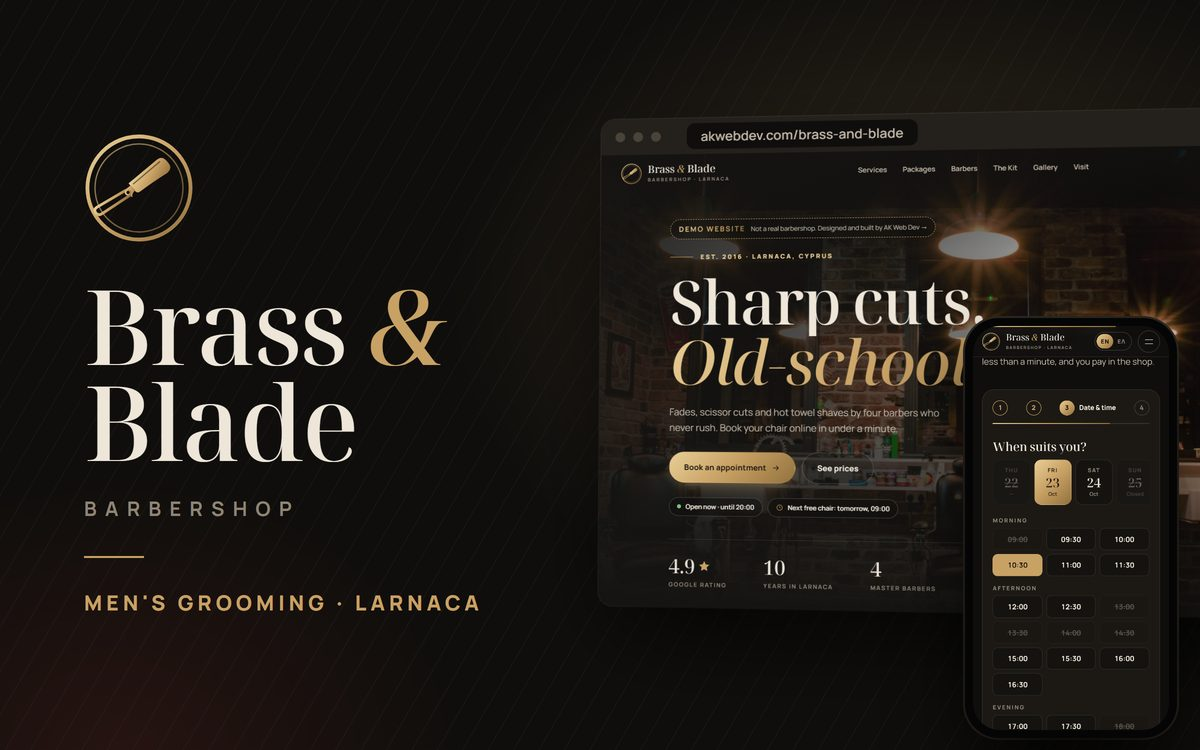
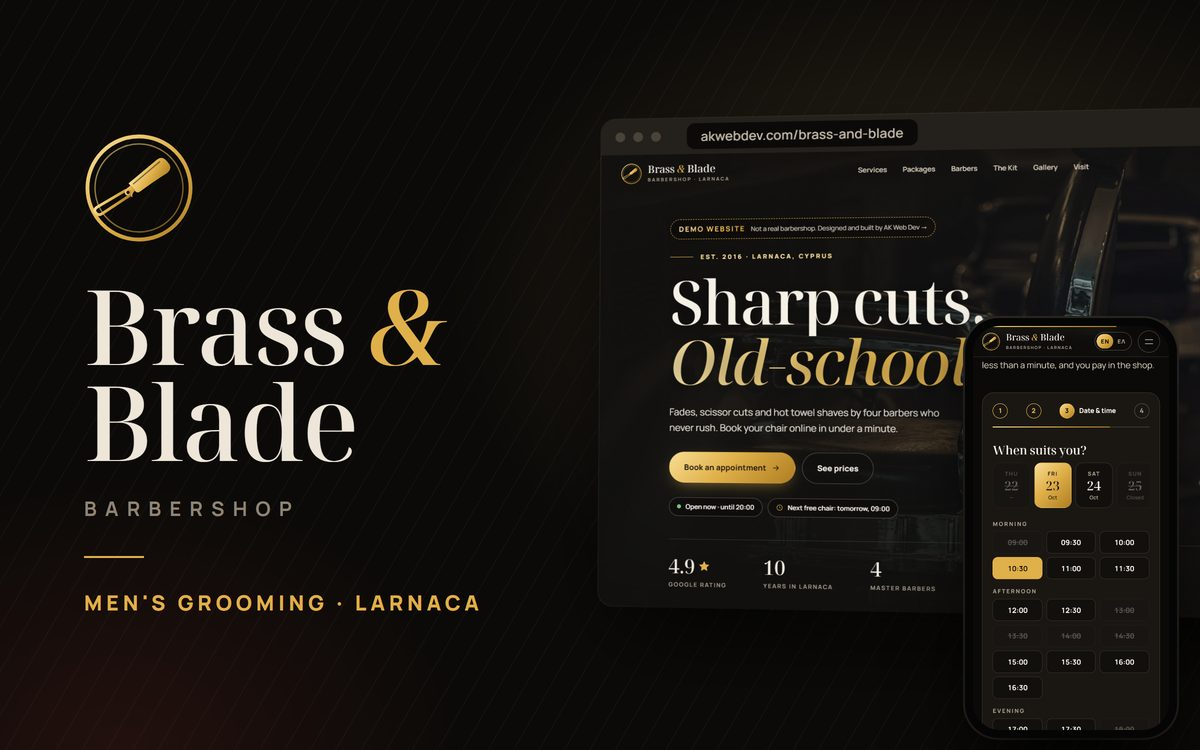
Refresh the Brass & Blade thumbnail

diff --git a/index.html b/index.html
@@ -27,7 +27,7 @@
   <link rel="preconnect" href="https://fonts.googleapis.com">
   <link rel="preconnect" href="https://fonts.gstatic.com" crossorigin>
   <link href="https://fonts.googleapis.com/css2?family=Inter:wght@400;500;600;700&display=swap" rel="stylesheet">
-  <link rel="preload" as="image" href="images/work/barber-thumb-720.jpg?v=1" imagesrcset="images/work/barber-thumb-720.jpg?v=1 720w, images/work/barber-thumb-1200.jpg?v=1 1200w" imagesizes="(max-width: 960px) 64vw, 420px">
+  <link rel="preload" as="image" href="images/work/barber-thumb-720.jpg?v=2" imagesrcset="images/work/barber-thumb-720.jpg?v=2 720w, images/work/barber-thumb-1200.jpg?v=2 1200w" imagesizes="(max-width: 960px) 64vw, 420px">
 
   <link rel="stylesheet" href="css/style.css?v=28">
   <script>document.documentElement.classList.add("js");</script>
@@ -146,7 +146,7 @@
           <div class="stage">
             <div class="card card-back"><img src="images/work/forge-thumb-720.jpg?v=1" srcset="images/work/forge-thumb-720.jpg?v=1 720w, images/work/forge-thumb-1200.jpg?v=1 1200w" sizes="(max-width: 960px) 62vw, 400px" width="1200" height="750" alt="" decoding="async"></div>
             <div class="card card-mid"><img src="images/work/olive-thumb-720.jpg?v=1" srcset="images/work/olive-thumb-720.jpg?v=1 720w, images/work/olive-thumb-1200.jpg?v=1 1200w" sizes="(max-width: 960px) 64vw, 420px" width="1200" height="750" alt="" decoding="async"></div>
-            <div class="card card-front"><img src="images/work/barber-thumb-720.jpg?v=1" srcset="images/work/barber-thumb-720.jpg?v=1 720w, images/work/barber-thumb-1200.jpg?v=1 1200w" sizes="(max-width: 960px) 64vw, 420px" width="1200" height="750" alt="" fetchpriority="high" decoding="async"></div>
+            <div class="card card-front"><img src="images/work/barber-thumb-720.jpg?v=2" srcset="images/work/barber-thumb-720.jpg?v=2 720w, images/work/barber-thumb-1200.jpg?v=2 1200w" sizes="(max-width: 960px) 64vw, 420px" width="1200" height="750" alt="" fetchpriority="high" decoding="async"></div>
             <span class="float-chip chip-1"><svg class="ico"><use href="#i-check"/></svg><span data-i18n="hero.chip1">Online ordering</span></span>
             <span class="float-chip chip-2">EN · ΕΛ</span>
             <span class="float-chip chip-3"><span class="dot"></span><span data-i18n="hero.chip3">3 live demos</span></span>
@@ -202,7 +202,7 @@
 
         <article class="project reveal">
           <a class="project-media" data-cfg-href="demoBarber" href="https://akwebdev.com/brass-and-blade/" target="_blank" rel="noopener" aria-label="Open Brass &amp; Blade live site">
-            <img class="project-thumb" src="images/work/barber-thumb-720.jpg?v=1" srcset="images/work/barber-thumb-720.jpg?v=1 720w, images/work/barber-thumb-1200.jpg?v=1 1200w" sizes="(max-width: 900px) 92vw, 640px" width="1200" height="750" alt="Brass &amp; Blade: the barbershop logo beside its homepage and appointment booking on desktop and phone" loading="lazy" decoding="async">
+            <img class="project-thumb" src="images/work/barber-thumb-720.jpg?v=2" srcset="images/work/barber-thumb-720.jpg?v=2 720w, images/work/barber-thumb-1200.jpg?v=2 1200w" sizes="(max-width: 900px) 92vw, 640px" width="1200" height="750" alt="Brass &amp; Blade: the barbershop logo beside its homepage and appointment booking on desktop and phone" loading="lazy" decoding="async">
             <span class="project-open"><span data-i18n="work.open">Open live site</span><svg class="ico"><use href="#i-out"/></svg></span>
           </a>
           <div class="project-body">
